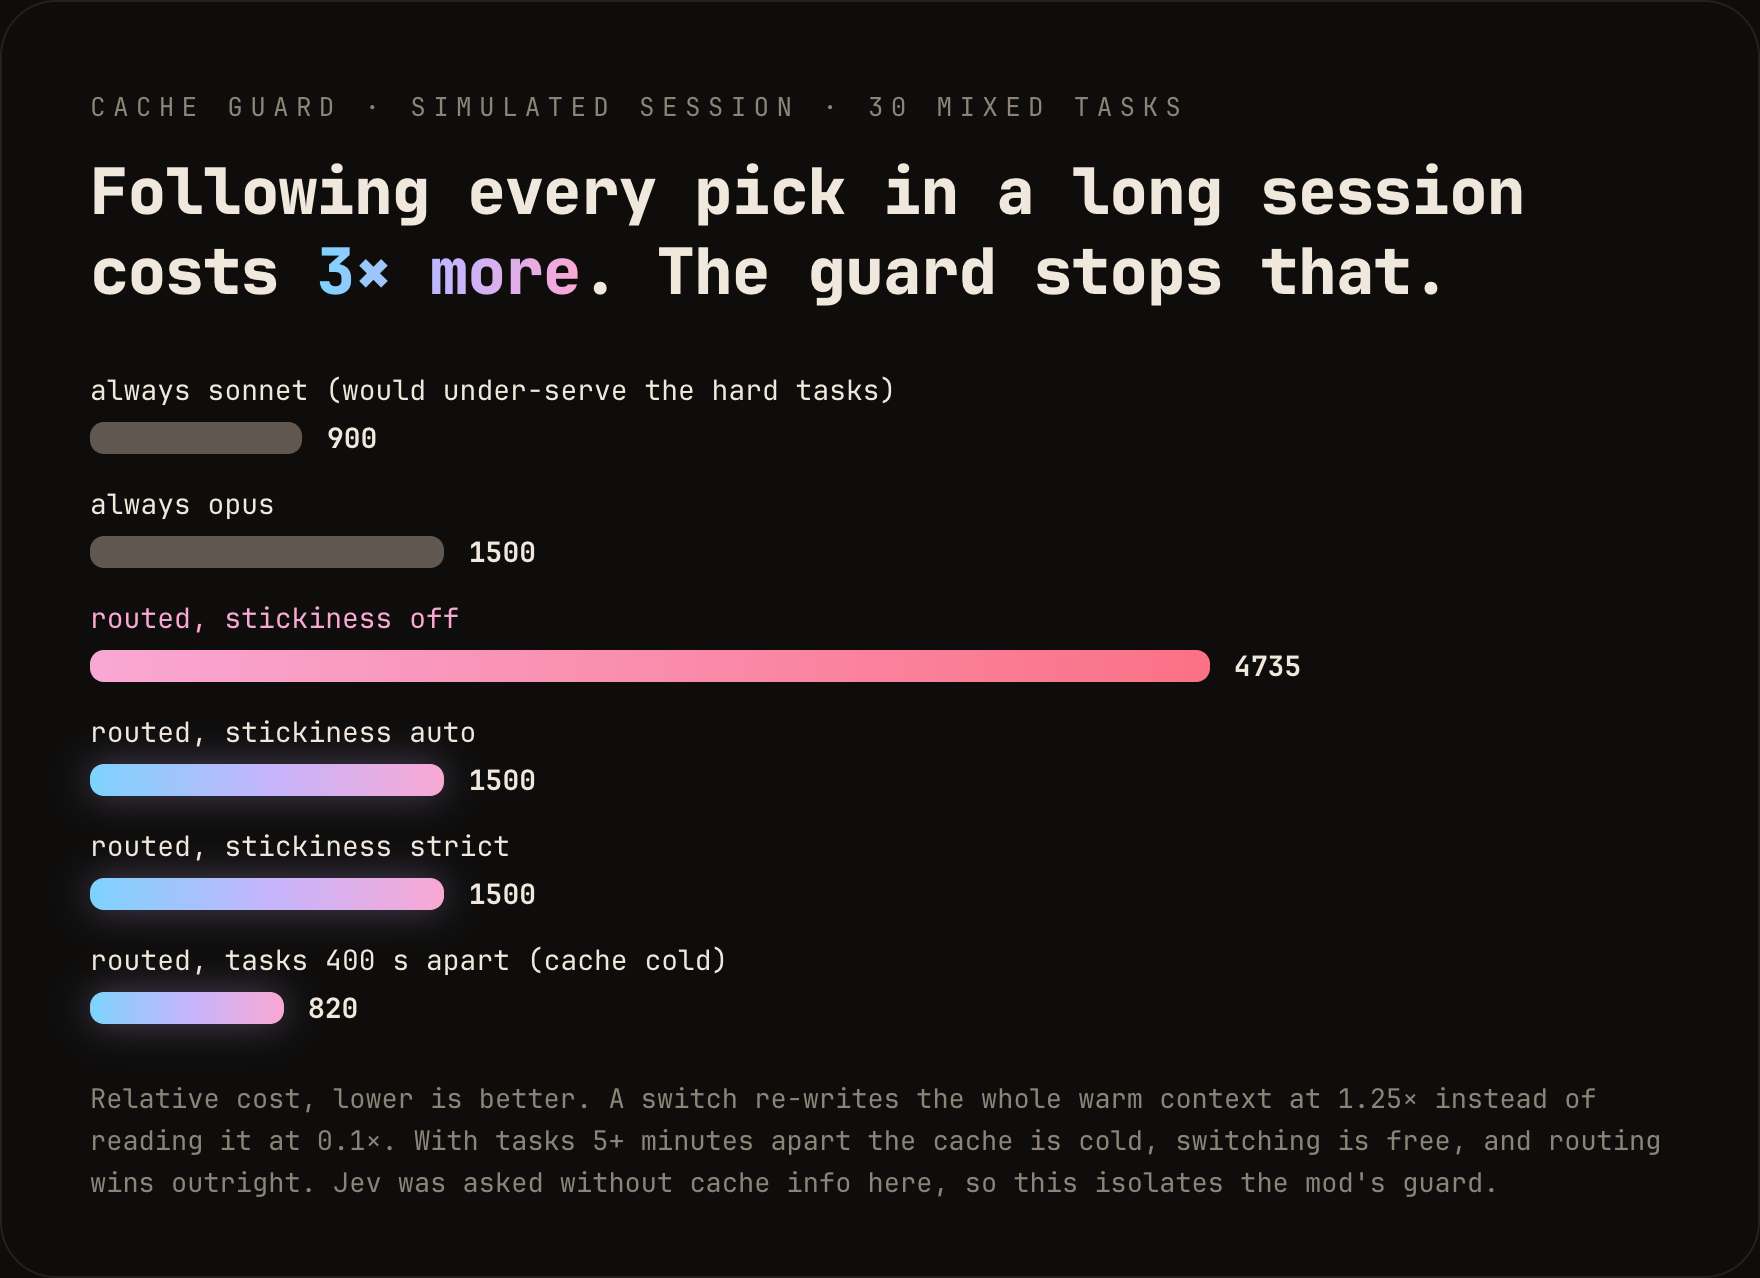
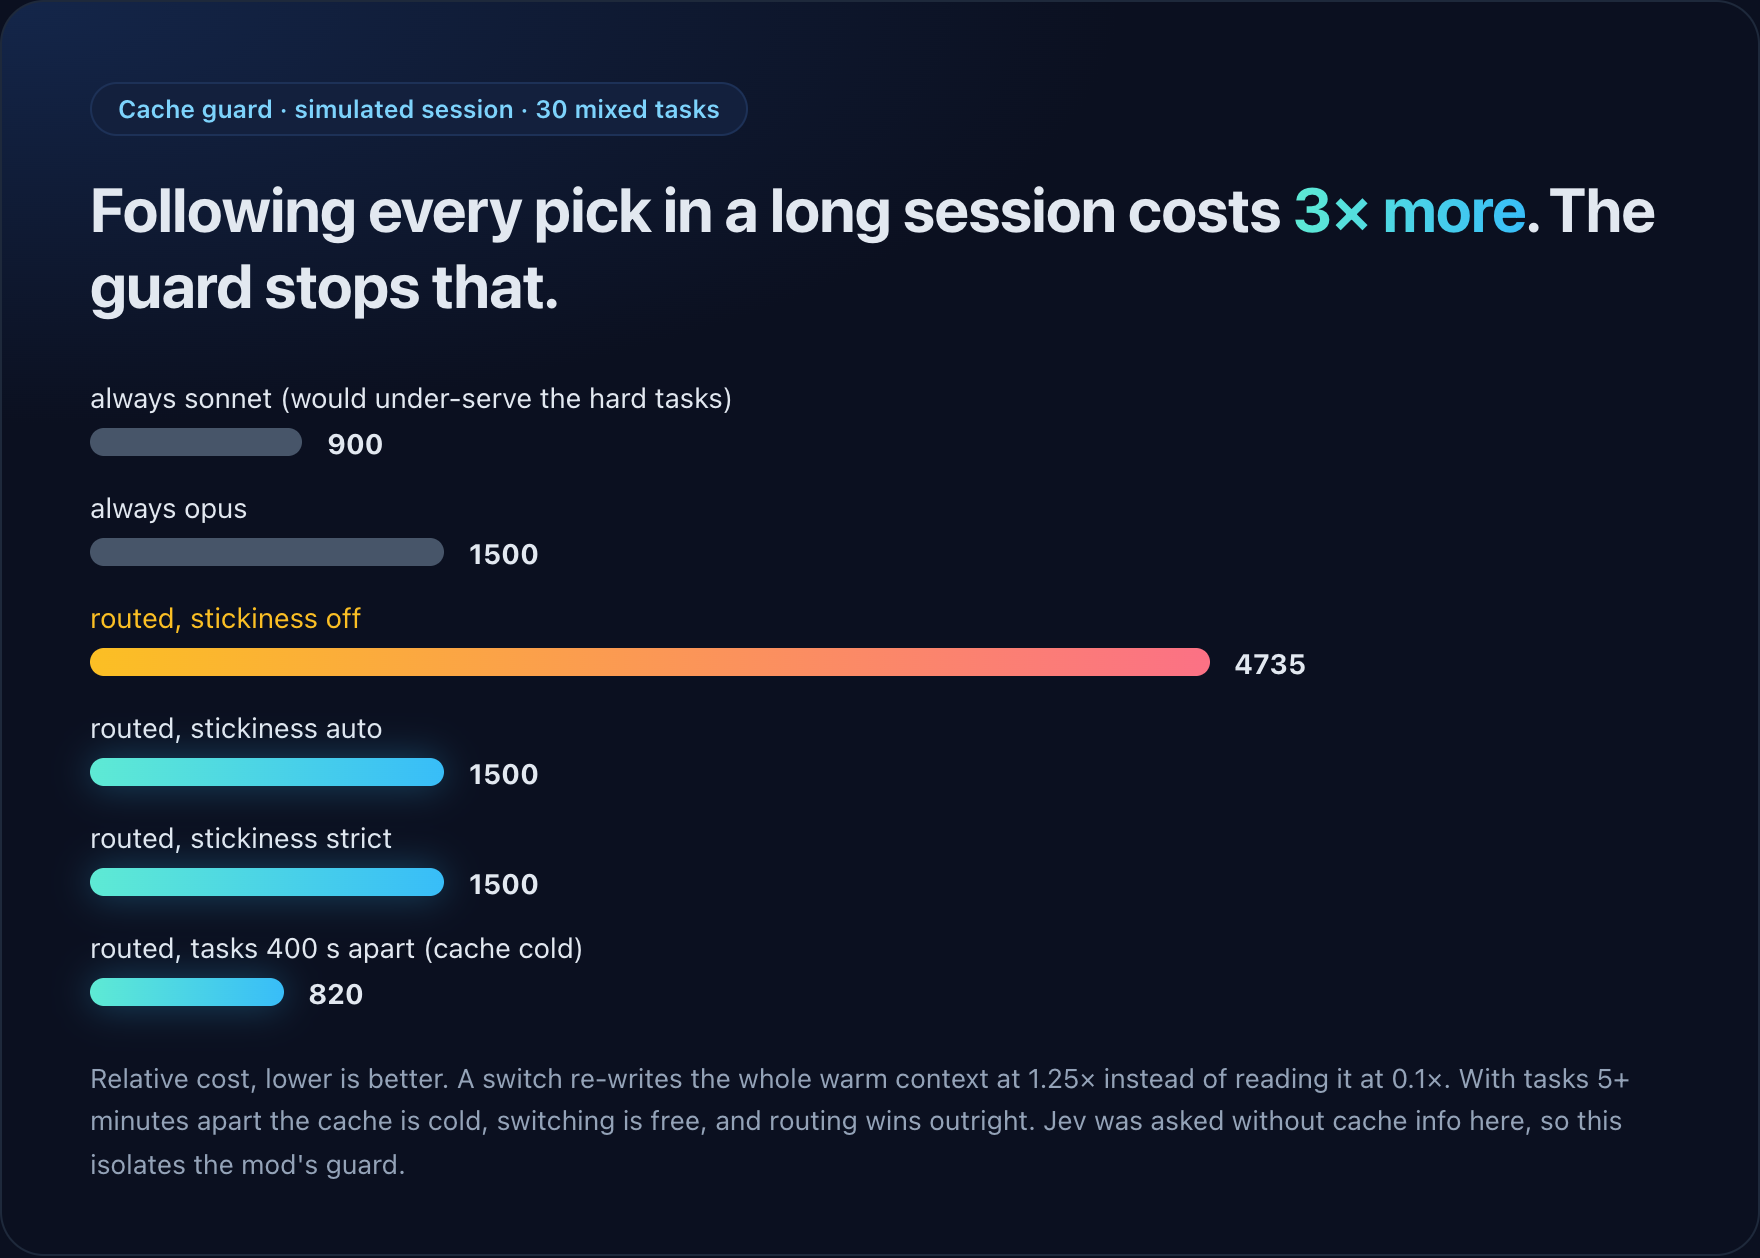
docs: benchmark the effort cap, restyle images, update README

diff --git a/benchmarks/README.md b/benchmarks/README.md
@@ -42,30 +42,33 @@ Full tables in [results/RESULTS.md](results/RESULTS.md).
 
 ## Measured tokens and cost
 
-The relative-unit costs above assume every strategy spends the same number of tokens. That is not true, so we also ran all 30 tasks headless on the model and effort each strategy uses and recorded real usage: 131 runs, 0 errors. No plugin means a fixed model at its default effort. The router runs use the model and effort Jev picked. Tables: [results/TOKENS.md](results/TOKENS.md).
+The relative-unit costs above assume every strategy spends the same number of tokens. That is not true, so we also ran all 30 tasks headless on the model and effort each strategy uses and recorded real usage: 147 runs, 0 errors. No plugin means a fixed model at its default effort. The router runs use the model Jev picked with either its effort as asked (uncapped) or capped at `high`, the default. Tables: [results/TOKENS.md](results/TOKENS.md).
 
 | Total over 30 tasks | output tokens | cost | vs always opus | vs always sonnet |
 | --- | --- | --- | --- | --- |
 | no plugin: always opus | 50.0k | $1.16 | | |
 | no plugin: always sonnet | 35.0k | $0.44 | -62% | |
-| jev-router efficient | 134.0k | $2.59 | **+123%** | +491% |
-| jev-router balanced | 125.5k | $2.34 | **+101%** | +434% |
-| jev-router cheap | 53.5k | $0.54 | **-53%** | +25% |
+| jev-router efficient, cap high (default) | 62.1k | $1.15 | **-1%** | +163% |
+| jev-router balanced, cap high (default) | 59.1k | $1.01 | **-13%** | +132% |
+| jev-router cheap, cap high (default) | 41.1k | $0.42 | **-64%** | -4% |
+| jev-router efficient, uncapped | 134.0k | $2.59 | +123% | +491% |
+| jev-router balanced, uncapped | 125.5k | $2.34 | +101% | +434% |
+| jev-router cheap, uncapped | 53.5k | $0.54 | -53% | +25% |
 
 By tier, cost against always opus:
 
-| | trivial | standard | hard |
-| --- | --- | --- | --- |
-| efficient | -97% | -65% | **+242%** |
-| balanced | -97% | -65% | **+207%** |
-| cheap | -97% | -68% | -39% |
+| | trivial | standard | hard, cap high | hard, uncapped |
+| --- | --- | --- | --- | --- |
+| efficient | -97% | -65% | +43% | +242% |
+| balanced | -97% | -65% | +24% | +207% |
+| cheap | -97% | -68% | -56% | -39% |
 
-- **Easy and mid tasks are where it saves.** Trivial tasks cost 97% less than opus and standard tasks 65% less, with about the same output tokens. That is the model switch alone.
-- **Hard tasks cost more, because of effort.** For hard tasks Jev asks for `xhigh` effort, which makes the model think longer: opus used 121k output tokens at that effort against 34k at its default. Holding effort equal, `efficient` costs the same as opus on hard tasks (it picks opus), so the extra spend is the reasoning depth, not the routing. Whether that deeper reasoning produces better answers is not measured here.
-- **So only `cheap` is cheaper overall.** `efficient` and `balanced` spend about twice what always-opus-at-default does, because they buy more reasoning on the hard tasks. `cheap` sends hard tasks to sonnet and ends 53% below opus, and 25% above plain sonnet.
-- **Sonnet at `xhigh` beat opus at `xhigh` on cost.** On hard tasks `cheap` (sonnet) used 41k output tokens against 118k for opus at the same effort.
+- **Easy and mid tasks are where it saves.** Trivial tasks cost 97% less than opus and standard tasks 65% less, with about the same output tokens. That is the model switch alone, and the cap does not touch it.
+- **Hard tasks are where the effort cap matters.** Uncapped, Jev asks for `xhigh` effort and opus used 121k output tokens at that effort against 34k at its default. Capped at `high`, `efficient` hard tasks drop from +242% to +43%, and from +207% to +24% for `balanced`.
+- **With the default cap no mode costs more than always opus overall.** `efficient` lands about level (-1%), `balanced` 13% below, `cheap` 64% below and 4% below plain sonnet.
+- **Sonnet beat opus on cost for the same effort.** On hard tasks `cheap` (sonnet) used far fewer tokens than opus at the same effort.
 
-The mod now has an `effortCap` option (default `high`) for exactly this, and `!full` to lift it for one prompt. These measurements were taken with the cap off (`none`); they have not been re-run with the cap on.
+`!full` (or `/jev full`) lifts the cap for one prompt when a task deserves the deeper reasoning. Whether deeper reasoning gives a better answer is not measured here.
 
 ## Limits, said plainly
 

diff --git a/README.md b/README.md
@@ -60,23 +60,32 @@ When the cache wins, the band says so: `opus (kept 🔒 cache warm; wanted haiku
 
 ## Does it pay off?
 
-Benchmarked on 30 tasks: 270 calls to Jev for the picks, then 131 real runs for token usage and cost.
+Benchmarked on 30 tasks: 270 calls to Jev for the picks, then 147 real runs for token usage and cost, with the effort cap at its default (`high`) and uncapped.
 
 <p align="center">
   <img src="assets/fit.png" width="880" alt="Routing fit: efficient 100%, balanced 87%, cheap 66% of picks fit the task. 253 ms added per task, 97 to 100% same pick on repeat.">
 </p>
 
 <p align="center">
-  <img src="assets/cost.png" width="880" alt="Cost as a percentage of always opus. Trivial tasks cost 3%, standard 32 to 35%, hard tasks 342%, 307% and 61% for efficient, balanced and cheap. Overall 223%, 201% and 47%.">
+  <img src="assets/cost.png" width="880" alt="Cost as a percentage of always opus with the effort capped at high. Trivial tasks 3%, standard 32 to 35%, hard 143%, 124% and 44% for efficient, balanced and cheap. Overall 99%, 87% and 36%. Uncapped hard tasks cost 342%, 307% and 61%.">
 </p>
 
-The numbers below were measured **before the effort cap existed**, with Jev's effort applied as picked (`effortCap` set to `none`). With the default cap of `high` the hard-task bars should shrink; that has not been re-measured yet. The honest read: the model switch saves a lot on easy and mid tasks. On hard tasks Jev also asks for `xhigh` effort, so `efficient` and `balanced` spend more tokens thinking than opus at its default, which is deeper reasoning rather than savings. Only `cheap` is cheaper overall.
+| Cost vs always opus (no plugin) | efficient | balanced | cheap |
+| --- | --- | --- | --- |
+| Trivial tasks | -97% | -97% | -97% |
+| Standard tasks | -65% | -65% | -68% |
+| Hard tasks, **cap high (default)** | +43% | +24% | -56% |
+| Hard tasks, uncapped | +242% | +207% | -39% |
+| **All 30, cap high (default)** | **-1%** | **-13%** | **-64%** |
+| All 30, uncapped | +123% | +101% | -53% |
+
+The honest read: the model switch saves a lot on easy and mid tasks, and the default cap of `high` brings every mode to or below always-opus overall. Hard tasks still cost 24% to 43% more in `efficient` and `balanced`, because Jev picks opus there and asks for deeper reasoning. `!full` lifts the cap for one prompt when you want that. The cap changes tokens spent, not answer quality, and that is not measured.
 
 <p align="center">
   <img src="assets/cache.png" width="880" alt="Cache guard: following every pick in a warm session costs 4735 against 1500 for always opus. With the guard it is 1500. With cold cache and tasks 400 seconds apart it is 820.">
 </p>
 
-Without the cache guard, following every pick in a long warm session cost 3x more than just using opus. This measures spend, not answer quality. Method, per-tier tables and all caveats: [benchmarks/](benchmarks/README.md).
+Without the cache guard, following every pick in a long warm session cost 3x more than just using opus. Inside one long warm session the guard keeps you on the first model, so the savings above show up mostly when the cache is cold or the context is small. Method, per-tier tables and all caveats: [benchmarks/](benchmarks/README.md).
 
 ## How it works
 

diff --git a/benchmarks/results/TOKENS.md b/benchmarks/results/TOKENS.md
@@ -8,9 +8,12 @@
 |---|---|---|---|---|---|---|
 | no plugin: always opus | 50.0k | 83.3k | $1.16 |  |  |  |
 | no plugin: always sonnet | 35.0k | 83.4k | $0.44 | -62% | -30% |  |
-| jev-router efficient | 134.0k | 91.1k | $2.59 | +123% | +168% | +491% |
-| jev-router balanced | 125.5k | 91.2k | $2.34 | +101% | +151% | +434% |
-| jev-router cheap | 53.5k | 91.2k | $0.54 | -53% | +7% | +25% |
+| jev-router efficient (cap high, the default) | 62.1k | 91.1k | $1.15 | -1% | +24% | +163% |
+| jev-router efficient (uncapped) | 134.0k | 91.1k | $2.59 | +123% | +168% | +491% |
+| jev-router balanced (cap high, the default) | 59.1k | 91.2k | $1.01 | -13% | +18% | +132% |
+| jev-router balanced (uncapped) | 125.5k | 91.2k | $2.34 | +101% | +151% | +434% |
+| jev-router cheap (cap high, the default) | 41.1k | 91.2k | $0.42 | -64% | -18% | -4% |
+| jev-router cheap (uncapped) | 53.5k | 91.2k | $0.54 | -53% | +7% | +25% |
 
 ## Trivial tasks
 
@@ -18,9 +21,12 @@
 |---|---|---|---|
 | no plugin: always opus | 3.3k | $0.13 |  |
 | no plugin: always sonnet | 3.0k | $0.063 | -50% |
-| jev-router efficient | 3.4k | $0.004 | -97% |
-| jev-router balanced | 3.4k | $0.004 | -97% |
-| jev-router cheap | 3.4k | $0.004 | -97% |
+| jev-router efficient (cap high, the default) | 3.4k | $0.004 | -97% |
+| jev-router efficient (uncapped) | 3.4k | $0.004 | -97% |
+| jev-router balanced (cap high, the default) | 3.4k | $0.004 | -97% |
+| jev-router balanced (uncapped) | 3.4k | $0.004 | -97% |
+| jev-router cheap (cap high, the default) | 3.4k | $0.004 | -97% |
+| jev-router cheap (uncapped) | 3.4k | $0.004 | -97% |
 
 ## Standard tasks
 
@@ -28,9 +34,12 @@
 |---|---|---|---|
 | no plugin: always opus | 13.1k | $0.31 |  |
 | no plugin: always sonnet | 8.9k | $0.12 | -63% |
-| jev-router efficient | 9.4k | $0.11 | -65% |
-| jev-router balanced | 9.5k | $0.11 | -65% |
-| jev-router cheap | 8.7k | $0.099 | -68% |
+| jev-router efficient (cap high, the default) | 9.4k | $0.11 | -65% |
+| jev-router efficient (uncapped) | 9.4k | $0.11 | -65% |
+| jev-router balanced (cap high, the default) | 9.5k | $0.11 | -65% |
+| jev-router balanced (uncapped) | 9.5k | $0.11 | -65% |
+| jev-router cheap (cap high, the default) | 8.7k | $0.099 | -68% |
+| jev-router cheap (uncapped) | 8.7k | $0.099 | -68% |
 
 ## Hard tasks
 
@@ -38,9 +47,12 @@
 |---|---|---|---|
 | no plugin: always opus | 33.7k | $0.72 |  |
 | no plugin: always sonnet | 23.1k | $0.26 | -64% |
-| jev-router efficient | 121.2k | $2.48 | +242% |
-| jev-router balanced | 112.6k | $2.22 | +207% |
-| jev-router cheap | 41.4k | $0.44 | -39% |
+| jev-router efficient (cap high, the default) | 49.3k | $1.04 | +43% |
+| jev-router efficient (uncapped) | 121.2k | $2.48 | +242% |
+| jev-router balanced (cap high, the default) | 46.3k | $0.90 | +24% |
+| jev-router balanced (uncapped) | 112.6k | $2.22 | +207% |
+| jev-router cheap (cap high, the default) | 29.0k | $0.32 | -56% |
+| jev-router cheap (uncapped) | 41.4k | $0.44 | -39% |
 
 ## Effort held equal
 
